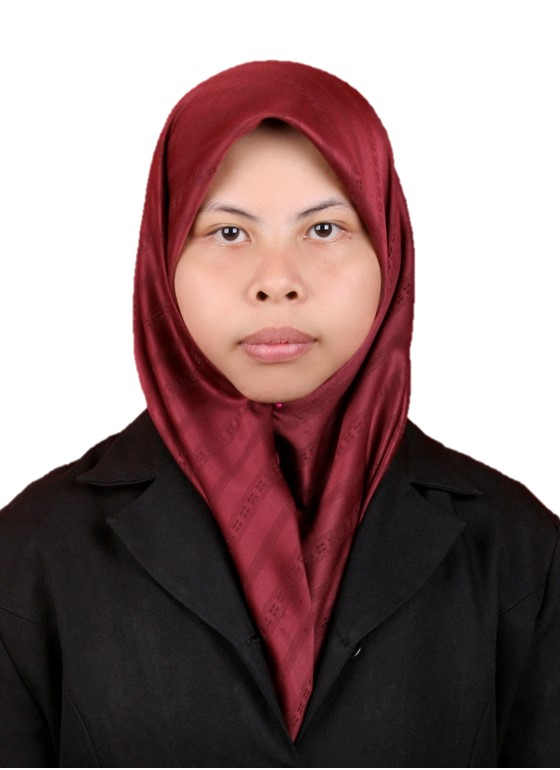
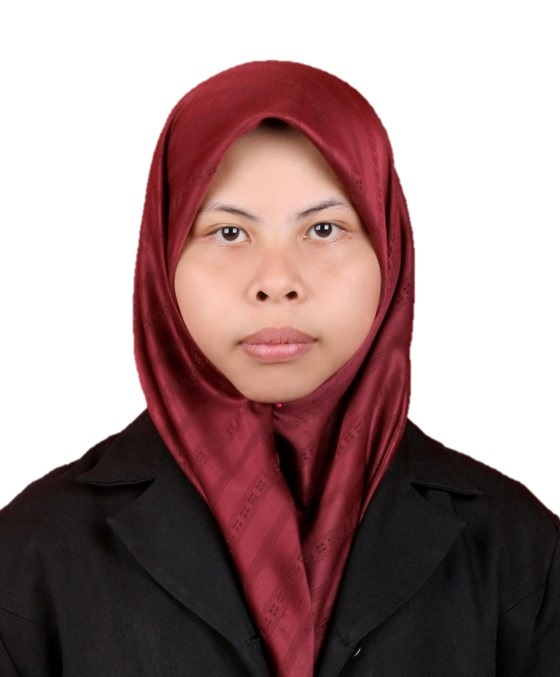
Update 2

diff --git a/public/index.html b/public/index.html
@@ -1490,12 +1490,12 @@
                 <h2>Dosen Pembimbing</h2>
                 <div class="team-grid-simple">
                     <div class="team-card">
-                        <img src="images/suratun.jpg" alt="Dr. Suratun Nafisah, S.Si., M.Sc.">
+                        <img src="images/suratun.png" alt="Dr. Suratun Nafisah, S.Si., M.Sc.">
                         <h3>Dr. Suratun Nafisah, S.Si., M.Sc.</h3>
                         <p>Dosen Pembimbing 1</p>
                     </div>
                     <div class="team-card">
-                        <img src="images/hadi.jpeg" alt="Hadi Teguh Yudistira, S.T., Ph.D.">
+                        <img src="images/hadi.png" alt="Hadi Teguh Yudistira, S.T., Ph.D.">
                         <h3>Hadi Teguh Yudistira, S.T., Ph.D.</h3>
                         <p>Dosen Pembimbing 2</p>
                     </div>
@@ -1505,17 +1505,17 @@
                 <h2>Tim Pengembang</h2>
                 <div class="team-grid-simple">
                     <div class="team-card">
-                        <img src="images/fauzi.jpg" alt="Muhamad Fauzi">
+                        <img src="images/fauzi.png" alt="Muhamad Fauzi">
                         <h3>Muhamad Fauzi</h3>
                         <p>Subsistem Material</p>
                     </div>
                     <div class="team-card">
-                        <img src="images/argya.jpg" alt="M. Argya Putra Laksono">
+                        <img src="images/argya.png" alt="M. Argya Putra Laksono">
                         <h3>M. Argya Putra Laksono</h3>
                         <p>Subsistem Instrumentasi</p>
                     </div>
                     <div class="team-card">
-                        <img src="images/jose.jpg" alt="Josevein Hutagalung">
+                        <img src="images/jose.png" alt="Josevein Hutagalung">
                         <h3>Josevein Hutagalung</h3>
                         <p>Subsistem Internet of Things</p>
                     </div>
